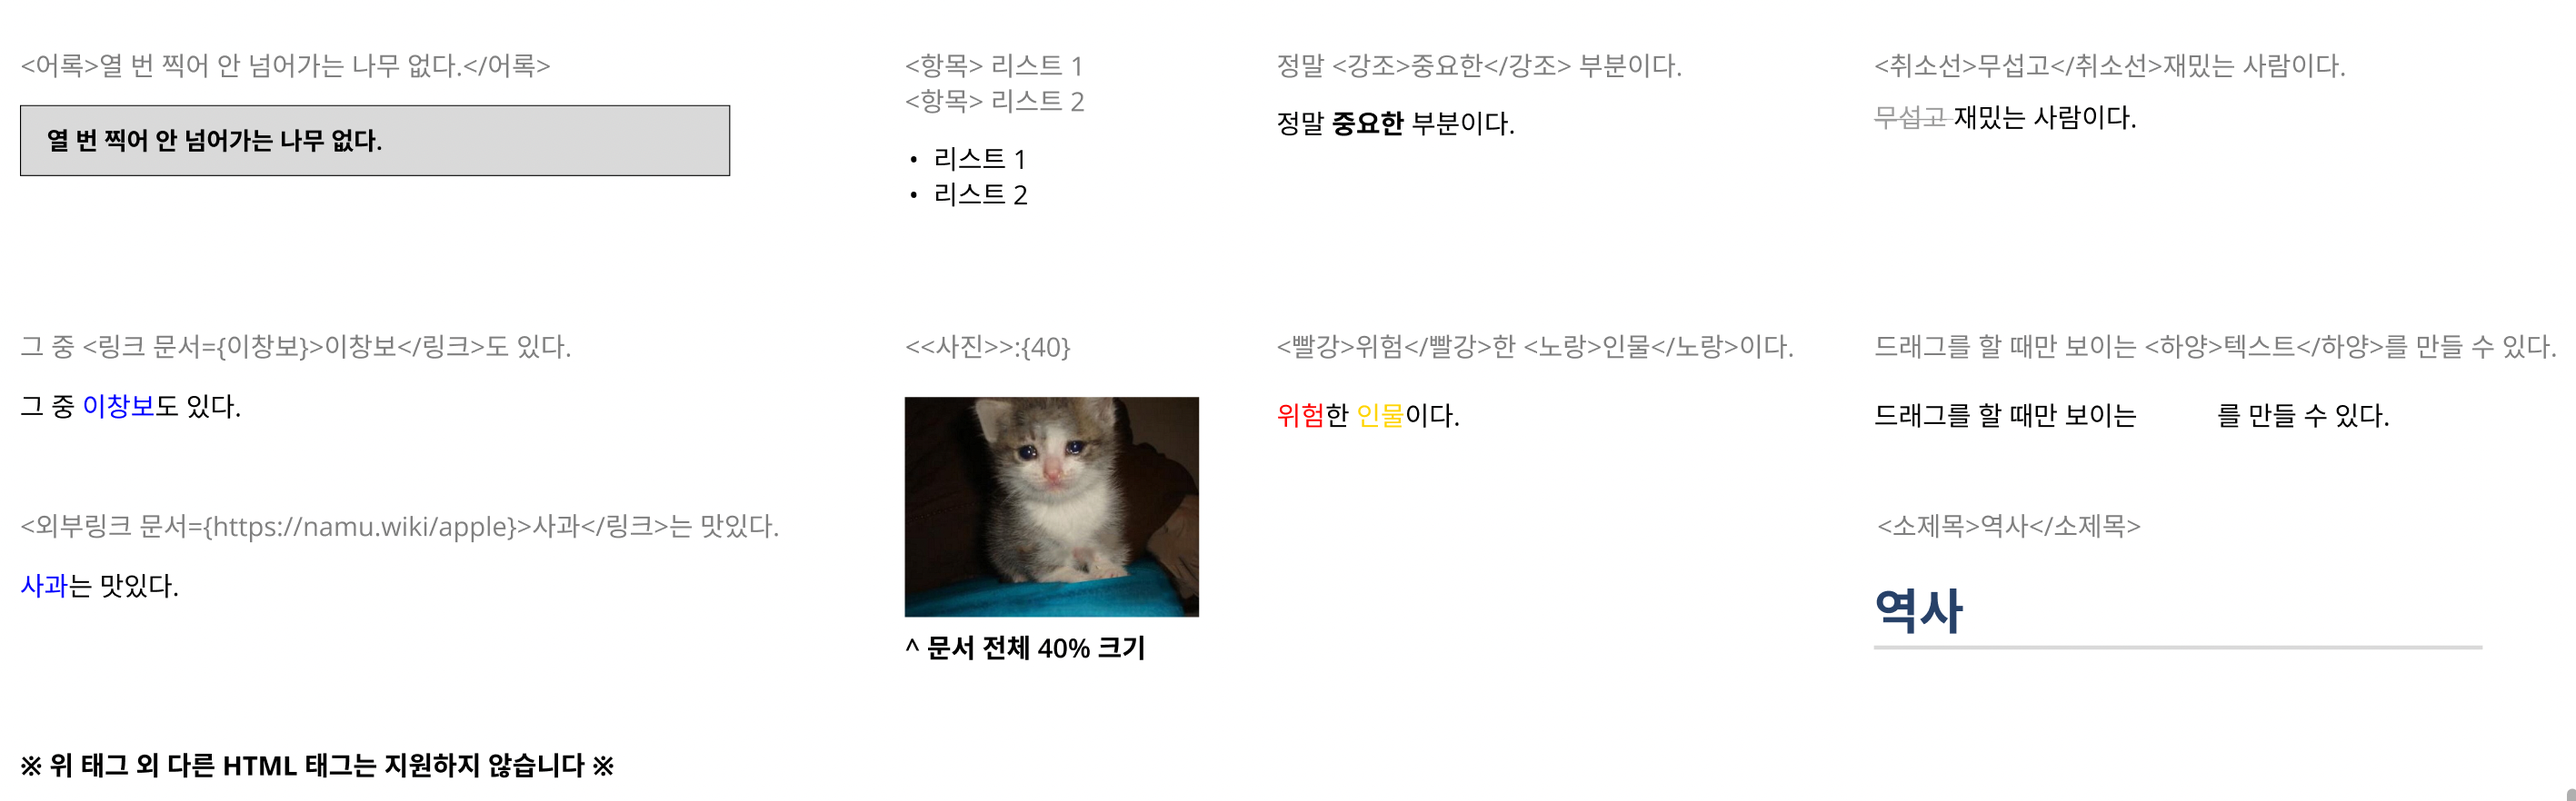
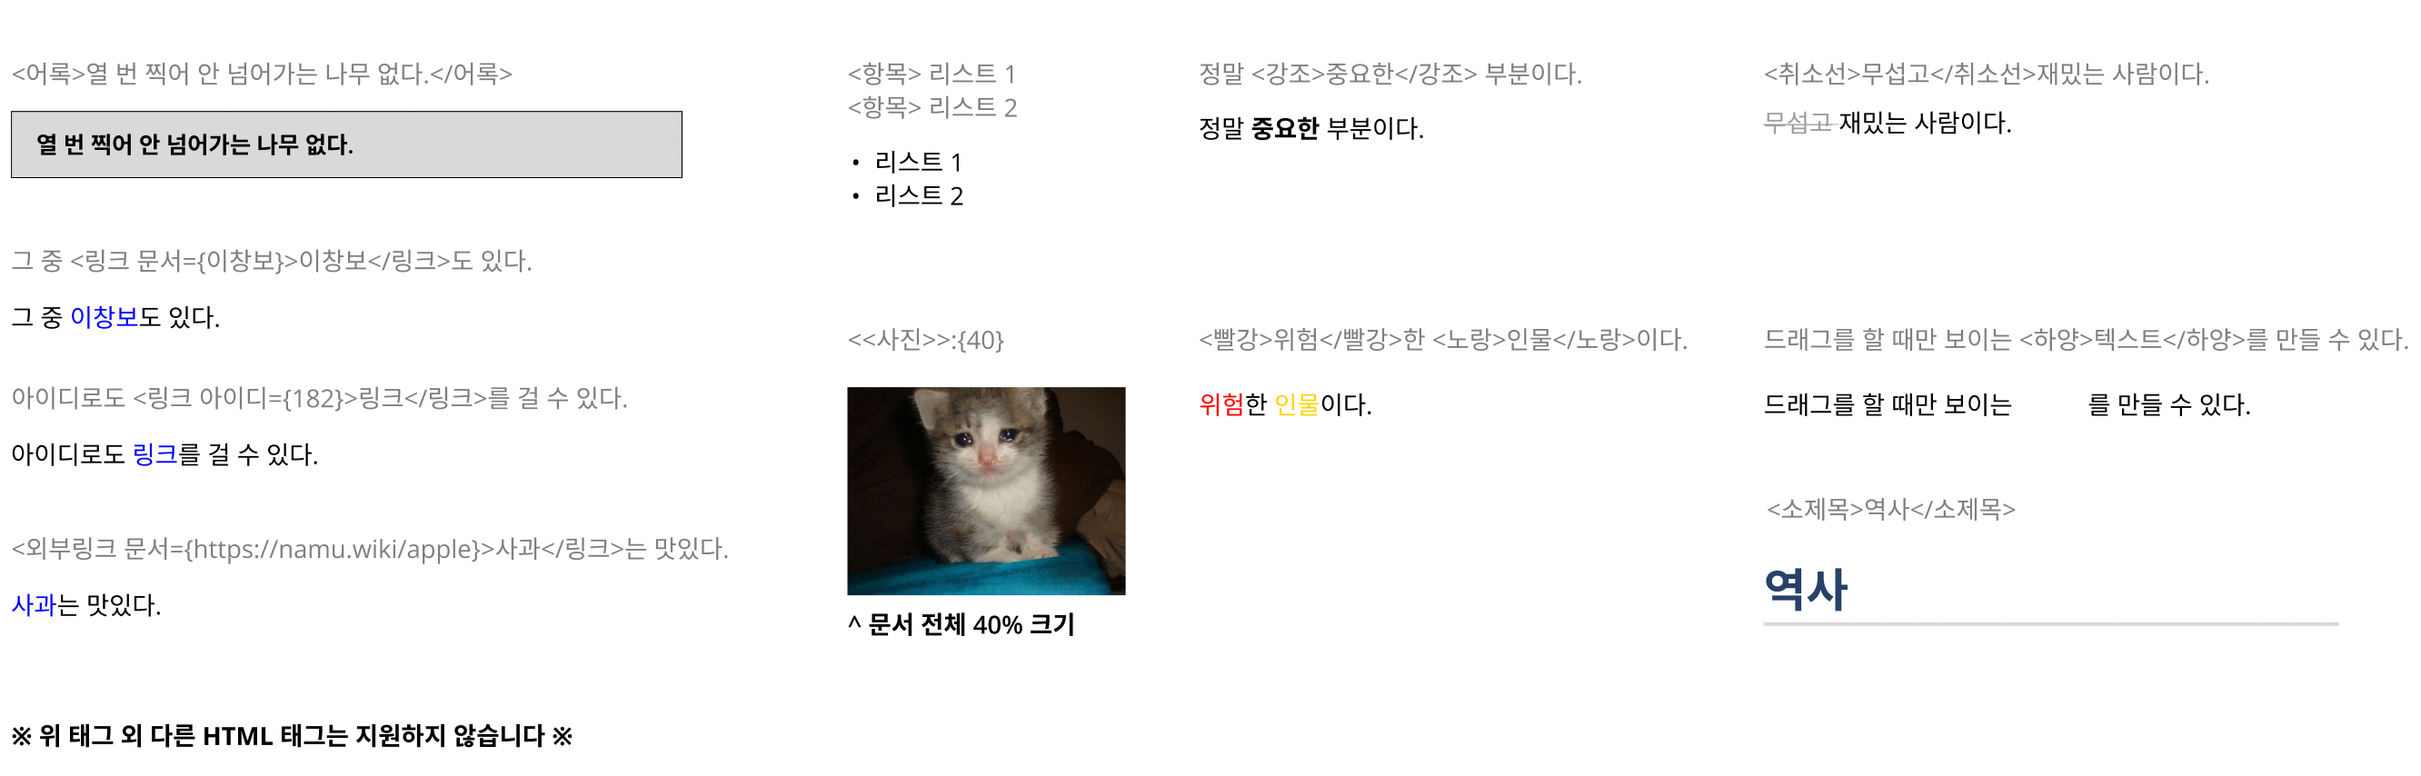
ADD : 아이디로 링크 걸게 추가

diff --git a/src/util/documentation.ts b/src/util/documentation.ts
@@ -20,7 +20,9 @@ export const documentation = (content: string) => {
         .replace(/<<사진>>/gi, `?^ ?^ 문서 생성 시 삽입하신 이미지가 차례대로 표시됩니다 ^? ^?`)
         .replace(/<외부링크 문서={/gi, `?^a style="text-decoration:none; color:blue;" target="_blank" href='`)
         .replace(/<링크 문서={/gi, `?^a style="text-decoration:none; color:blue;" href='/search/`)
+        .replace(/<링크 아이디={/gi, `?^a style="text-decoration:none; color:blue;" href='/docs/`)
         .replace(/}>/gi, `'^?`)
+        .replace(/<\/외부링크>/gi, `?^@#@#@a^?`)
         .replace(/<\/링크>/gi, `?^@#@#@a^?`)
         .replace(/<br\/>/gi, `?^br@#@#@^?`)
         .replace(/<</gi, `?^img src='`)
